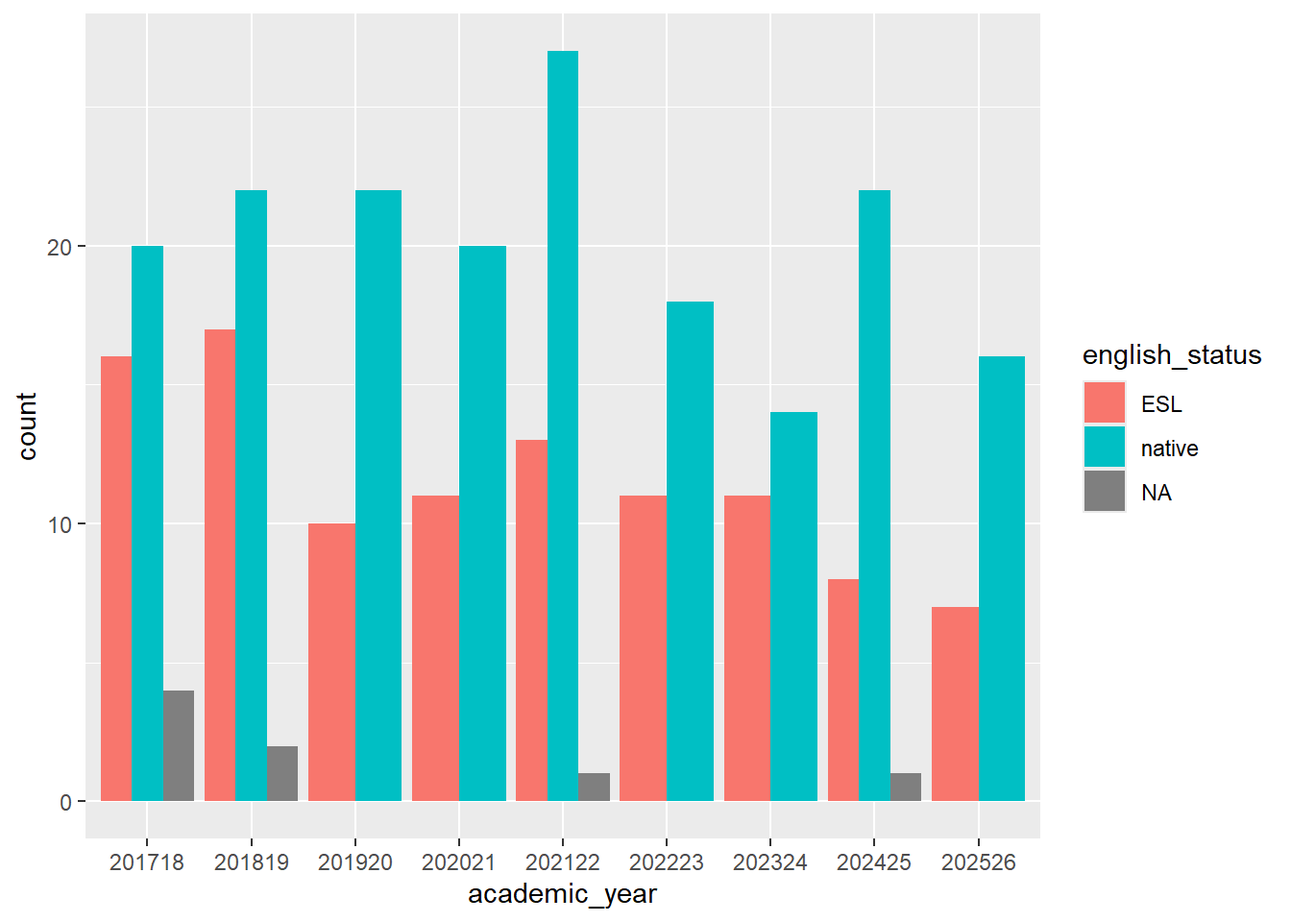
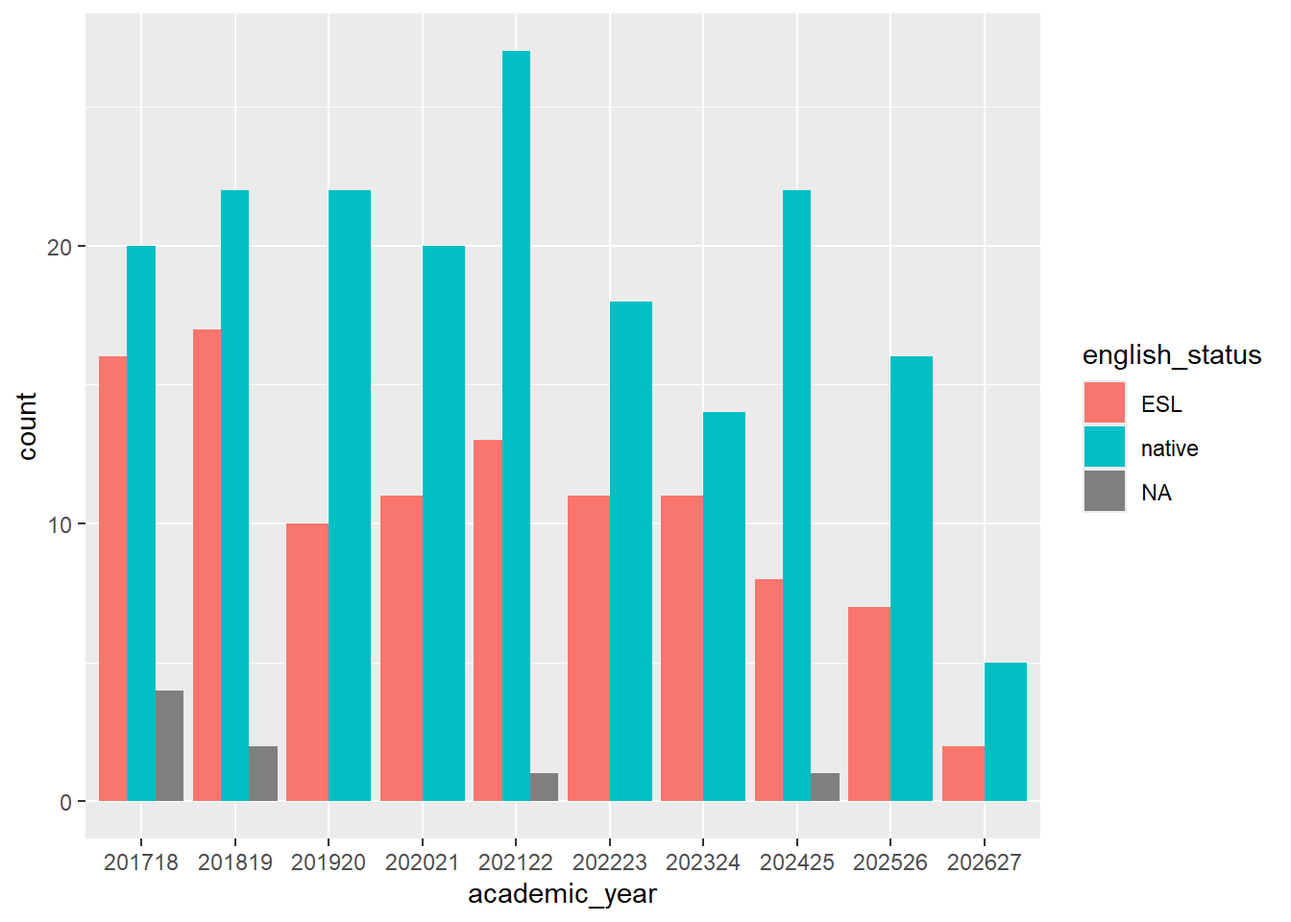
amended the filenames in the qmd doc to reflect filename change to 17_26 rather than 17_25 for the csv datafiles

Changed region(s): [[0.0938, 0.0312, 0.8125, 0.875], [0.0938, 0.9062, 0.7812, 0.9688]]

diff --git a/docs/PSYC7142/part1/Week4.html b/docs/PSYC7142/part1/Week4.html
@@ -357,11 +357,11 @@ pre > code.sourceCode > span > a:first-child::before { text-decoration: underlin
 <section id="lectures" class="level3">
 <h3 class="anchored" data-anchor-id="lectures">4.3.1 Lectures</h3>
 <p>Watch Lecture week 4 part 1:</p>
-<iframe src="https://lancaster.cloud.panopto.eu/Panopto/Pages/Embed.aspx?id=395fabc3-a8c7-4257-ba22-adce00ba6806&amp;autoplay=false&amp;offerviewer=true&amp;showtitle=true&amp;showbrand=true&amp;captions=false&amp;interactivity=all" height="405" width="720" style="border: 1px solid #464646;" allowfullscreen="" allow="autoplay" aria-label="Panopto Embedded Video Player" aria-description="psyc7142_2025_w4_p1"></iframe>
+<iframe src="https://lancaster.cloud.panopto.eu/Panopto/Pages/Embed.aspx?id=395fabc3-a8c7-4257-ba22-adce00ba6806&amp;autoplay=false&amp;offerviewer=true&amp;showtitle=true&amp;showbrand=true&amp;captions=false&amp;interactivity=all" height="405" width="720" style="border: 1px solid #464646;" allowfullscreen="" allow="autoplay" aria-label="Panopto Embedded Video Player" aria-description="psyc7142_2026_w4_p1"></iframe>
 <p>Watch Lecture week 4 part 2:</p>
-<iframe src="https://lancaster.cloud.panopto.eu/Panopto/Pages/Embed.aspx?id=de7f2f84-3b15-4048-bf60-adce00befd8e&amp;autoplay=false&amp;offerviewer=true&amp;showtitle=true&amp;showbrand=true&amp;captions=false&amp;interactivity=all" height="405" width="720" style="border: 1px solid #464646;" allowfullscreen="" allow="autoplay" aria-label="Panopto Embedded Video Player" aria-description="psyc7142_2025_w4_p2"></iframe>
+<iframe src="https://lancaster.cloud.panopto.eu/Panopto/Pages/Embed.aspx?id=de7f2f84-3b15-4048-bf60-adce00befd8e&amp;autoplay=false&amp;offerviewer=true&amp;showtitle=true&amp;showbrand=true&amp;captions=false&amp;interactivity=all" height="405" width="720" style="border: 1px solid #464646;" allowfullscreen="" allow="autoplay" aria-label="Panopto Embedded Video Player" aria-description="psyc7142_2026_w4_p2"></iframe>
 <p>Watch Lecture week 4 part 3:</p>
-<iframe src="https://lancaster.cloud.panopto.eu/Panopto/Pages/Embed.aspx?id=6276260f-a698-4ecc-a0f6-b09d00dcfde4&amp;autoplay=false&amp;offerviewer=true&amp;showtitle=true&amp;showbrand=true&amp;captions=false&amp;interactivity=all" height="405" width="720" style="border: 1px solid #464646;" allowfullscreen="" allow="autoplay" aria-label="Panopto Embedded Video Player" aria-description="psyc7142 2025 w4 p3"></iframe>
+<iframe src="https://lancaster.cloud.panopto.eu/Panopto/Pages/Embed.aspx?id=6276260f-a698-4ecc-a0f6-b09d00dcfde4&amp;autoplay=false&amp;offerviewer=true&amp;showtitle=true&amp;showbrand=true&amp;captions=false&amp;interactivity=all" height="405" width="720" style="border: 1px solid #464646;" allowfullscreen="" allow="autoplay" aria-label="Panopto Embedded Video Player" aria-description="psyc7142 2026 w4 p3"></iframe>
 <div class="callout callout-style-default callout-note no-icon callout-titled">
 <div class="callout-header d-flex align-content-center" data-bs-toggle="collapse" data-bs-target=".callout-1-contents" aria-controls="callout-1" aria-expanded="true" aria-label="Toggle callout">
 <div class="callout-icon-container">
@@ -431,9 +431,9 @@ pre > code.sourceCode > span > a:first-child::before { text-decoration: underlin
 </div>
 </div>
 <p>The data set on the Shipley and Gent vocabulary scores is now updated with the data from your group, so it now contains <em>nine</em> years of PSYC7142 students’ data. There are three datasets, I have separated the data in order to preserve anonymity, and changed the subject_ID numbers.</p>
-<p>The first contains information about vocabulary scores and gender - this is called <a href="data/wk4/PSYC7142-shipley-scores-anonymous-17_25_gender.csv" target="_blank">PSYC7142-shipley-scores-anonymous-17_25_gender.csv</a>. Download this file to your computer, then Upload it into the r server. Save it as an object in R studio called <code>vocabgenderdat</code>.</p>
-<p>The second contains information about vocabulary scores and language background and year of academic study - this is called <a href="data/wk4/PSYC7142-shipley-scores-anonymous-17_25_year_language.csv" target="_blank">PSYC7142-shipley-scores-anonymous-17_25_year_language.csv</a> and read the data into an object in R studio called <code>vocabyearlangdat</code> (for vocabulary data).</p>
-<p>The third contains information about gender and language background - this is called <a href="data/wk4/PSYC7142-shipley-scores-anonymous-17_25_gender_language.csv" target="_blank">PSYC7142-shipley-scores-anonymous-17_25_gender_language.csv</a> and read the data into an object in R studio called <code>genderlangdat</code> (for vocabulary data).</p>
+<p>The first contains information about vocabulary scores and gender - this is called <a href="data/wk4/PSYC7142-shipley-scores-anonymous-17_26_gender.csv" target="_blank">PSYC7142-shipley-scores-anonymous-17_26_gender.csv</a>. Download this file to your computer, then Upload it into the r server. Save it as an object in R studio called <code>vocabgenderdat</code>.</p>
+<p>The second contains information about vocabulary scores and language background and year of academic study - this is called <a href="data/wk4/PSYC7142-shipley-scores-anonymous-17_26_year_language.csv" target="_blank">PSYC7142-shipley-scores-anonymous-17_26_year_language.csv</a> and read the data into an object in R studio called <code>vocabyearlangdat</code> (for vocabulary data).</p>
+<p>The third contains information about gender and language background - this is called <a href="data/wk4/PSYC7142-shipley-scores-anonymous-17_26_gender_language.csv" target="_blank">PSYC7142-shipley-scores-anonymous-17_26_gender_language.csv</a> and read the data into an object in R studio called <code>genderlangdat</code> (for vocabulary data).</p>
 <div class="callout callout-style-default callout-warning no-icon callout-titled">
 <div class="callout-header d-flex align-content-center collapsed" data-bs-toggle="collapse" data-bs-target=".callout-2-contents" aria-controls="callout-2" aria-expanded="false" aria-label="Toggle callout">
 <div class="callout-icon-container">
@@ -447,9 +447,9 @@ pre > code.sourceCode > span > a:first-child::before { text-decoration: underlin
 <div id="callout-2" class="callout-2-contents callout-collapse collapse">
 <div class="callout-body-container callout-body">
 <div class="cell">
-<div class="code-copy-outer-scaffold"><div class="sourceCode cell-code" id="cb3"><pre class="sourceCode r code-with-copy"><code class="sourceCode r"><span id="cb3-1"><a href="#cb3-1" aria-hidden="true" tabindex="-1"></a>vocabgenderdat <span class="ot">&lt;-</span> <span class="fu">read_csv</span>(<span class="st">"data/wk4/PSYC7142-shipley-scores-anonymous-17_25_gender.csv"</span>)</span></code></pre></div><button title="Copy to Clipboard" class="code-copy-button"><i class="bi"></i></button></div>
+<div class="code-copy-outer-scaffold"><div class="sourceCode cell-code" id="cb3"><pre class="sourceCode r code-with-copy"><code class="sourceCode r"><span id="cb3-1"><a href="#cb3-1" aria-hidden="true" tabindex="-1"></a>vocabgenderdat <span class="ot">&lt;-</span> <span class="fu">read_csv</span>(<span class="st">"data/wk4/PSYC7142-shipley-scores-anonymous-17_26_gender.csv"</span>)</span></code></pre></div><button title="Copy to Clipboard" class="code-copy-button"><i class="bi"></i></button></div>
 <div class="cell-output cell-output-stderr">
-<pre><code>Rows: 293 Columns: 5
+<pre><code>Rows: 300 Columns: 5
 ── Column specification ────────────────────────────────────────────────────────
 Delimiter: ","
 chr (1): Gender
@@ -458,9 +458,9 @@ dbl (4): subject_ID, Shipley_Voc_Score, Gent_1_score, Gent_2_score
 ℹ Use `spec()` to retrieve the full column specification for this data.
 ℹ Specify the column types or set `show_col_types = FALSE` to quiet this message.</code></pre>
 </div>
-<div class="code-copy-outer-scaffold"><div class="sourceCode cell-code" id="cb5"><pre class="sourceCode r code-with-copy"><code class="sourceCode r"><span id="cb5-1"><a href="#cb5-1" aria-hidden="true" tabindex="-1"></a>vocabyearlangdat <span class="ot">&lt;-</span> <span class="fu">read_csv</span>(<span class="st">"data/wk4/PSYC7142-shipley-scores-anonymous-17_25_year_language.csv"</span>)</span></code></pre></div><button title="Copy to Clipboard" class="code-copy-button"><i class="bi"></i></button></div>
+<div class="code-copy-outer-scaffold"><div class="sourceCode cell-code" id="cb5"><pre class="sourceCode r code-with-copy"><code class="sourceCode r"><span id="cb5-1"><a href="#cb5-1" aria-hidden="true" tabindex="-1"></a>vocabyearlangdat <span class="ot">&lt;-</span> <span class="fu">read_csv</span>(<span class="st">"data/wk4/PSYC7142-shipley-scores-anonymous-17_26_year_language.csv"</span>)</span></code></pre></div><button title="Copy to Clipboard" class="code-copy-button"><i class="bi"></i></button></div>
 <div class="cell-output cell-output-stderr">
-<pre><code>Rows: 293 Columns: 7
+<pre><code>Rows: 300 Columns: 7
 ── Column specification ────────────────────────────────────────────────────────
 Delimiter: ","
 chr (1): english_status
@@ -469,9 +469,9 @@ dbl (6): subject_ID, Age, Shipley_Voc_Score, Gent_1_score, Gent_2_score, aca...
 ℹ Use `spec()` to retrieve the full column specification for this data.
 ℹ Specify the column types or set `show_col_types = FALSE` to quiet this message.</code></pre>
 </div>
-<div class="code-copy-outer-scaffold"><div class="sourceCode cell-code" id="cb7"><pre class="sourceCode r code-with-copy"><code class="sourceCode r"><span id="cb7-1"><a href="#cb7-1" aria-hidden="true" tabindex="-1"></a>genderlangdat <span class="ot">&lt;-</span> <span class="fu">read_csv</span>(<span class="st">"data/wk4/PSYC7142-shipley-scores-anonymous-17_25_gender_language.csv"</span>)</span></code></pre></div><button title="Copy to Clipboard" class="code-copy-button"><i class="bi"></i></button></div>
+<div class="code-copy-outer-scaffold"><div class="sourceCode cell-code" id="cb7"><pre class="sourceCode r code-with-copy"><code class="sourceCode r"><span id="cb7-1"><a href="#cb7-1" aria-hidden="true" tabindex="-1"></a>genderlangdat <span class="ot">&lt;-</span> <span class="fu">read_csv</span>(<span class="st">"data/wk4/PSYC7142-shipley-scores-anonymous-17_26_gender_language.csv"</span>)</span></code></pre></div><button title="Copy to Clipboard" class="code-copy-button"><i class="bi"></i></button></div>
 <div class="cell-output cell-output-stderr">
-<pre><code>Rows: 293 Columns: 3
+<pre><code>Rows: 300 Columns: 3
 ── Column specification ────────────────────────────────────────────────────────
 Delimiter: ","
 chr (2): english_status, Gender
@@ -1089,7 +1089,7 @@ titanic$class       died   survived
 <div class="code-copy-outer-scaffold"><div class="sourceCode cell-code" id="cb46"><pre class="sourceCode r code-with-copy"><code class="sourceCode r"><span id="cb46-1"><a href="#cb46-1" aria-hidden="true" tabindex="-1"></a><span class="fu">cramersV</span>(<span class="at">x =</span> titanic<span class="sc">$</span>class, <span class="at">y =</span> titanic<span class="sc">$</span>survival)</span></code></pre></div><button title="Copy to Clipboard" class="code-copy-button"><i class="bi"></i></button></div>
 </div>
 <ol start="24" type="1">
-<li>Your next task is to run some Chi-squared and Cramer’s V tests on some of the other nominal data. Open the data “PSYC7142-shipley-scores-anonymous-17_25_gender_language.csv” again. Investigate the association between gender and english status (are there different distributions of males and females for those with English as a first or additional language) using Chi-squared and Cramer’s V. Is it significant?</li>
+<li>Your next task is to run some Chi-squared and Cramer’s V tests on some of the other nominal data. Open the data “PSYC7142-shipley-scores-anonymous-17_26_gender_language.csv” again. Investigate the association between gender and english status (are there different distributions of males and females for those with English as a first or additional language) using Chi-squared and Cramer’s V. Is it significant?</li>
 </ol>
 <div class="callout callout-style-default callout-warning no-icon callout-titled">
 <div class="callout-header d-flex align-content-center collapsed" data-bs-toggle="collapse" data-bs-target=".callout-19-contents" aria-controls="callout-19" aria-expanded="false" aria-label="Toggle callout">
@@ -1105,9 +1105,9 @@ titanic$class       died   survived
 <div class="callout-body-container callout-body">
 <div class="cell">
 <div class="code-copy-outer-scaffold"><div class="sourceCode cell-code" id="cb47"><pre class="sourceCode r code-with-copy"><code class="sourceCode r"><span id="cb47-1"><a href="#cb47-1" aria-hidden="true" tabindex="-1"></a><span class="fu">library</span>(lsr)</span>
-<span id="cb47-2"><a href="#cb47-2" aria-hidden="true" tabindex="-1"></a>genderlangdat <span class="ot">&lt;-</span> <span class="fu">read_csv</span>(<span class="st">"data/wk4/PSYC7142-shipley-scores-anonymous-17_25_gender_language.csv"</span>); </span></code></pre></div><button title="Copy to Clipboard" class="code-copy-button"><i class="bi"></i></button></div>
+<span id="cb47-2"><a href="#cb47-2" aria-hidden="true" tabindex="-1"></a>genderlangdat <span class="ot">&lt;-</span> <span class="fu">read_csv</span>(<span class="st">"data/wk4/PSYC7142-shipley-scores-anonymous-17_26_gender_language.csv"</span>); </span></code></pre></div><button title="Copy to Clipboard" class="code-copy-button"><i class="bi"></i></button></div>
 <div class="cell-output cell-output-stderr">
-<pre><code>Rows: 293 Columns: 3
+<pre><code>Rows: 300 Columns: 3
 ── Column specification ────────────────────────────────────────────────────────
 Delimiter: ","
 chr (2): english_status, Gender
@@ -1126,7 +1126,7 @@ Chi-squared approximation may be incorrect</code></pre>
     Pearson's Chi-squared test
 
 data:  genderlangdat$Gender and genderlangdat$english_status
-X-squared = 0.57694, df = 2, p-value = 0.7494</code></pre>
+X-squared = 0.48601, df = 2, p-value = 0.7843</code></pre>
 </div>
 <div class="code-copy-outer-scaffold"><div class="sourceCode cell-code" id="cb52"><pre class="sourceCode r code-with-copy"><code class="sourceCode r"><span id="cb52-1"><a href="#cb52-1" aria-hidden="true" tabindex="-1"></a><span class="fu">cramersV</span>( <span class="at">x =</span> genderlangdat<span class="sc">$</span>Gender, genderlangdat<span class="sc">$</span>english_status)</span></code></pre></div><button title="Copy to Clipboard" class="code-copy-button"><i class="bi"></i></button></div>
 <div class="cell-output cell-output-stderr">
@@ -1134,7 +1134,7 @@ X-squared = 0.57694, df = 2, p-value = 0.7494</code></pre>
 may be incorrect</code></pre>
 </div>
 <div class="cell-output cell-output-stdout">
-<pre><code>[1] 0.0450721</code></pre>
+<pre><code>[1] 0.04086717</code></pre>
 </div>
 </div>
 <p>It is not significant, X-squared(2, N = 284) = 0.58, p = .749, Cramer’s V = 0.05, but note that there is &lt; 5 in the “Other” gender category which gives us the warning message “Chi-squared approximation may be incorrect”.</p>
@@ -1147,11 +1147,11 @@ may be incorrect</code></pre>
     Pearson's Chi-squared test with Yates' continuity correction
 
 data:  genderlangdatmf$Gender and genderlangdatmf$english_status
-X-squared = 0.36297, df = 1, p-value = 0.5469</code></pre>
+X-squared = 0.12158, df = 1, p-value = 0.7273</code></pre>
 </div>
 <div class="code-copy-outer-scaffold"><div class="sourceCode cell-code" id="cb57"><pre class="sourceCode r code-with-copy"><code class="sourceCode r"><span id="cb57-1"><a href="#cb57-1" aria-hidden="true" tabindex="-1"></a><span class="fu">cramersV</span>( <span class="at">x =</span> genderlangdatmf<span class="sc">$</span>Gender, genderlangdatmf<span class="sc">$</span>english_status)</span></code></pre></div><button title="Copy to Clipboard" class="code-copy-button"><i class="bi"></i></button></div>
 <div class="cell-output cell-output-stdout">
-<pre><code>[1] 0.04474554</code></pre>
+<pre><code>[1] 0.0292059</code></pre>
 </div>
 </div>
 <p>It still is not significant, X-squared(1, 281) = 0.36, p = .547, Cramer’s V = 0.04.</p>
@@ -1174,9 +1174,9 @@ X-squared = 0.36297, df = 1, p-value = 0.5469</code></pre>
 <div id="callout-20" class="callout-20-contents callout-collapse collapse">
 <div class="callout-body-container callout-body">
 <div class="cell">
-<div class="code-copy-outer-scaffold"><div class="sourceCode cell-code" id="cb59"><pre class="sourceCode r code-with-copy"><code class="sourceCode r"><span id="cb59-1"><a href="#cb59-1" aria-hidden="true" tabindex="-1"></a>vocabyearlangdat <span class="ot">&lt;-</span> <span class="fu">read_csv</span>(<span class="st">"data/wk4/PSYC7142-shipley-scores-anonymous-17_25_year_language.csv"</span>)</span></code></pre></div><button title="Copy to Clipboard" class="code-copy-button"><i class="bi"></i></button></div>
+<div class="code-copy-outer-scaffold"><div class="sourceCode cell-code" id="cb59"><pre class="sourceCode r code-with-copy"><code class="sourceCode r"><span id="cb59-1"><a href="#cb59-1" aria-hidden="true" tabindex="-1"></a>vocabyearlangdat <span class="ot">&lt;-</span> <span class="fu">read_csv</span>(<span class="st">"data/wk4/PSYC7142-shipley-scores-anonymous-17_26_year_language.csv"</span>)</span></code></pre></div><button title="Copy to Clipboard" class="code-copy-button"><i class="bi"></i></button></div>
 <div class="cell-output cell-output-stderr">
-<pre><code>Rows: 293 Columns: 7
+<pre><code>Rows: 300 Columns: 7
 ── Column specification ────────────────────────────────────────────────────────
 Delimiter: ","
 chr (1): english_status
@@ -1186,16 +1186,24 @@ dbl (6): subject_ID, Age, Shipley_Voc_Score, Gent_1_score, Gent_2_score, aca...
 ℹ Specify the column types or set `show_col_types = FALSE` to quiet this message.</code></pre>
 </div>
 <div class="code-copy-outer-scaffold"><div class="sourceCode cell-code" id="cb61"><pre class="sourceCode r code-with-copy"><code class="sourceCode r"><span id="cb61-1"><a href="#cb61-1" aria-hidden="true" tabindex="-1"></a><span class="fu">chisq.test</span>( <span class="at">x =</span> vocabyearlangdat<span class="sc">$</span>academic_year, vocabyearlangdat<span class="sc">$</span>english_status)</span></code></pre></div><button title="Copy to Clipboard" class="code-copy-button"><i class="bi"></i></button></div>
+<div class="cell-output cell-output-stderr">
+<pre><code>Warning in chisq.test(x = vocabyearlangdat$academic_year,
+vocabyearlangdat$english_status): Chi-squared approximation may be incorrect</code></pre>
+</div>
 <div class="cell-output cell-output-stdout">
 <pre><code>
     Pearson's Chi-squared test
 
 data:  vocabyearlangdat$academic_year and vocabyearlangdat$english_status
-X-squared = 4.746, df = 8, p-value = 0.7843</code></pre>
+X-squared = 4.942, df = 9, p-value = 0.8393</code></pre>
 </div>
-<div class="code-copy-outer-scaffold"><div class="sourceCode cell-code" id="cb63"><pre class="sourceCode r code-with-copy"><code class="sourceCode r"><span id="cb63-1"><a href="#cb63-1" aria-hidden="true" tabindex="-1"></a><span class="fu">cramersV</span>( <span class="at">x =</span> vocabyearlangdat<span class="sc">$</span>academic_year, vocabyearlangdat<span class="sc">$</span>english_status)</span></code></pre></div><button title="Copy to Clipboard" class="code-copy-button"><i class="bi"></i></button></div>
+<div class="code-copy-outer-scaffold"><div class="sourceCode cell-code" id="cb64"><pre class="sourceCode r code-with-copy"><code class="sourceCode r"><span id="cb64-1"><a href="#cb64-1" aria-hidden="true" tabindex="-1"></a><span class="fu">cramersV</span>( <span class="at">x =</span> vocabyearlangdat<span class="sc">$</span>academic_year, vocabyearlangdat<span class="sc">$</span>english_status)</span></code></pre></div><button title="Copy to Clipboard" class="code-copy-button"><i class="bi"></i></button></div>
+<div class="cell-output cell-output-stderr">
+<pre><code>Warning in stats::chisq.test(..., correct = FALSE): Chi-squared approximation
+may be incorrect</code></pre>
+</div>
 <div class="cell-output cell-output-stdout">
-<pre><code>[1] 0.1290454</code></pre>
+<pre><code>[1] 0.1300942</code></pre>
 </div>
 </div>
 <p>It is not significant, X-squared(8, 285) = 4.75, p = .784, Cramer’s V = 0.13.</p>
@@ -1225,8 +1233,8 @@ X-squared = 4.746, df = 8, p-value = 0.7843</code></pre>
 <div class="callout-body-container callout-body">
 <p>For example, you could have a go at occasion and intervention. This would tell you whether the participants are unevenly distributed across the occasions and interventions:</p>
 <div class="cell">
-<div class="code-copy-outer-scaffold"><div class="sourceCode cell-code" id="cb65"><pre class="sourceCode r code-with-copy"><code class="sourceCode r"><span id="cb65-1"><a href="#cb65-1" aria-hidden="true" tabindex="-1"></a>a <span class="ot">&lt;-</span> <span class="fu">group_by</span>(all_dat, occasion, intervention)</span>
-<span id="cb65-2"><a href="#cb65-2" aria-hidden="true" tabindex="-1"></a><span class="fu">chisq.test</span>( <span class="at">x =</span> all_dat<span class="sc">$</span>occasion, all_dat<span class="sc">$</span>intervention)</span></code></pre></div><button title="Copy to Clipboard" class="code-copy-button"><i class="bi"></i></button></div>
+<div class="code-copy-outer-scaffold"><div class="sourceCode cell-code" id="cb67"><pre class="sourceCode r code-with-copy"><code class="sourceCode r"><span id="cb67-1"><a href="#cb67-1" aria-hidden="true" tabindex="-1"></a>a <span class="ot">&lt;-</span> <span class="fu">group_by</span>(all_dat, occasion, intervention)</span>
+<span id="cb67-2"><a href="#cb67-2" aria-hidden="true" tabindex="-1"></a><span class="fu">chisq.test</span>( <span class="at">x =</span> all_dat<span class="sc">$</span>occasion, all_dat<span class="sc">$</span>intervention)</span></code></pre></div><button title="Copy to Clipboard" class="code-copy-button"><i class="bi"></i></button></div>
 <div class="cell-output cell-output-stdout">
 <pre><code>
     Pearson's Chi-squared test
@@ -1234,7 +1242,7 @@ X-squared = 4.746, df = 8, p-value = 0.7843</code></pre>
 data:  all_dat$occasion and all_dat$intervention
 X-squared = 9.7806, df = 15, p-value = 0.8333</code></pre>
 </div>
-<div class="code-copy-outer-scaffold"><div class="sourceCode cell-code" id="cb67"><pre class="sourceCode r code-with-copy"><code class="sourceCode r"><span id="cb67-1"><a href="#cb67-1" aria-hidden="true" tabindex="-1"></a><span class="fu">cramersV</span>( <span class="at">x =</span> all_dat<span class="sc">$</span>occasion, all_dat<span class="sc">$</span>intervention)</span></code></pre></div><button title="Copy to Clipboard" class="code-copy-button"><i class="bi"></i></button></div>
+<div class="code-copy-outer-scaffold"><div class="sourceCode cell-code" id="cb69"><pre class="sourceCode r code-with-copy"><code class="sourceCode r"><span id="cb69-1"><a href="#cb69-1" aria-hidden="true" tabindex="-1"></a><span class="fu">cramersV</span>( <span class="at">x =</span> all_dat<span class="sc">$</span>occasion, all_dat<span class="sc">$</span>intervention)</span></code></pre></div><button title="Copy to Clipboard" class="code-copy-button"><i class="bi"></i></button></div>
 <div class="cell-output cell-output-stdout">
 <pre><code>[1] 0.05732779</code></pre>
 </div>
@@ -1253,7 +1261,7 @@ X-squared = 9.7806, df = 15, p-value = 0.8333</code></pre>
 <p>Papoutsi, C., Zimianiti, E., Bosker, H. R., &amp; Frost, R. L. (2024). Statistical learning at a virtual cocktail party. <em>Psychonomic Bulletin &amp; Review, 31(2)</em>, 849-861. <a href="https://doi.org/10.3758/s13423-023-02384-1" target="_blank">https://doi.org/10.3758/s13423-023-02384-1</a></p>
 <p>The data are available on OSF, but also a cleaned version of the dataset is <a href="data/wk4/papatsou_cleaneddata.csv" target="_blank">available here</a>. If this doesn’t work when you try to upload into psy-rstudio.lancaster.ac.uk, then you can always get the data from the osf site using this command:</p>
 <div class="cell">
-<div class="code-copy-outer-scaffold"><div class="sourceCode cell-code" id="cb69"><pre class="sourceCode r code-with-copy"><code class="sourceCode r"><span id="cb69-1"><a href="#cb69-1" aria-hidden="true" tabindex="-1"></a>dat <span class="ot">&lt;-</span> <span class="fu">read_csv</span>(<span class="st">'https://osf.io/download/ky4u6/'</span>)</span></code></pre></div><button title="Copy to Clipboard" class="code-copy-button"><i class="bi"></i></button></div>
+<div class="code-copy-outer-scaffold"><div class="sourceCode cell-code" id="cb71"><pre class="sourceCode r code-with-copy"><code class="sourceCode r"><span id="cb71-1"><a href="#cb71-1" aria-hidden="true" tabindex="-1"></a>dat <span class="ot">&lt;-</span> <span class="fu">read_csv</span>(<span class="st">'https://osf.io/download/ky4u6/'</span>)</span></code></pre></div><button title="Copy to Clipboard" class="code-copy-button"><i class="bi"></i></button></div>
 </div>
 <p>There is also something in the osf site called a R-markdown file - Data_analysis_script.rmd</p>
 <p>This is a special kind of R-script, a “R-markdown” file, which also stores the results alongside the commands.</p>
@@ -1276,7 +1284,7 @@ X-squared = 9.7806, df = 15, p-value = 0.8333</code></pre>
 <div class="callout-body-container callout-body">
 <p>This is the dataset you need</p>
 <div class="cell">
-<div class="code-copy-outer-scaffold"><div class="sourceCode cell-code" id="cb70"><pre class="sourceCode r code-with-copy"><code class="sourceCode r"><span id="cb70-1"><a href="#cb70-1" aria-hidden="true" tabindex="-1"></a>papitsou <span class="ot">&lt;-</span> <span class="fu">read_csv</span>(<span class="st">"data/wk4/papatsou_cleaneddata.csv"</span>)</span></code></pre></div><button title="Copy to Clipboard" class="code-copy-button"><i class="bi"></i></button></div>
+<div class="code-copy-outer-scaffold"><div class="sourceCode cell-code" id="cb72"><pre class="sourceCode r code-with-copy"><code class="sourceCode r"><span id="cb72-1"><a href="#cb72-1" aria-hidden="true" tabindex="-1"></a>papitsou <span class="ot">&lt;-</span> <span class="fu">read_csv</span>(<span class="st">"data/wk4/papatsou_cleaneddata.csv"</span>)</span></code></pre></div><button title="Copy to Clipboard" class="code-copy-button"><i class="bi"></i></button></div>
 <div class="cell-output cell-output-stderr">
 <pre><code>Rows: 10236 Columns: 24
 ── Column specification ────────────────────────────────────────────────────────
@@ -1304,9 +1312,9 @@ dbl (11): trialNo, tablerow, soundrow, correct_answer, rt, status, trialaccu...
 <h2 class="anchored" data-anchor-id="data">4.4.2 Data</h2>
 <p>Data referred to in this workbook:</p>
 <ul>
-<li><p><a href="data/wk4/PSYC7142-shipley-scores-anonymous-17_25_gender.csv" target="_blank">PSYC7142-shipley-scores-anonymous-17_25_gender.csv</a></p></li>
-<li><p><a href="data/wk4/PSYC7142-shipley-scores-anonymous-17_25_year_language.csv" target="_blank">PSYC7142-shipley-scores-anonymous-17_25_year_language.csv</a></p></li>
-<li><p><a href="data/wk4/PSYC7142-shipley-scores-anonymous-17_25_gender_language.csv" target="_blank">PSYC7142-shipley-scores-anonymous-17_25_gender_language.csv</a></p></li>
+<li><p><a href="data/wk4/PSYC7142-shipley-scores-anonymous-17_26_gender.csv" target="_blank">PSYC7142-shipley-scores-anonymous-17_26_gender.csv</a></p></li>
+<li><p><a href="data/wk4/PSYC7142-shipley-scores-anonymous-17_26_year_language.csv" target="_blank">PSYC7142-shipley-scores-anonymous-17_26_year_language.csv</a></p></li>
+<li><p><a href="data/wk4/PSYC7142-shipley-scores-anonymous-17_26_gender_language.csv" target="_blank">PSYC7142-shipley-scores-anonymous-17_26_gender_language.csv</a></p></li>
 <li><p><a href="data/wk2/ahicesd.csv" target="_blank">ahicesd.csv</a></p></li>
 <li><p><a href="data/wk2/participantinfo.csv" target="_blank">participantinfo.csv</a></p></li>
 <li><p><a href="data/wk4/titanic.csv" target="_blank">titanic data</a></p></li>
